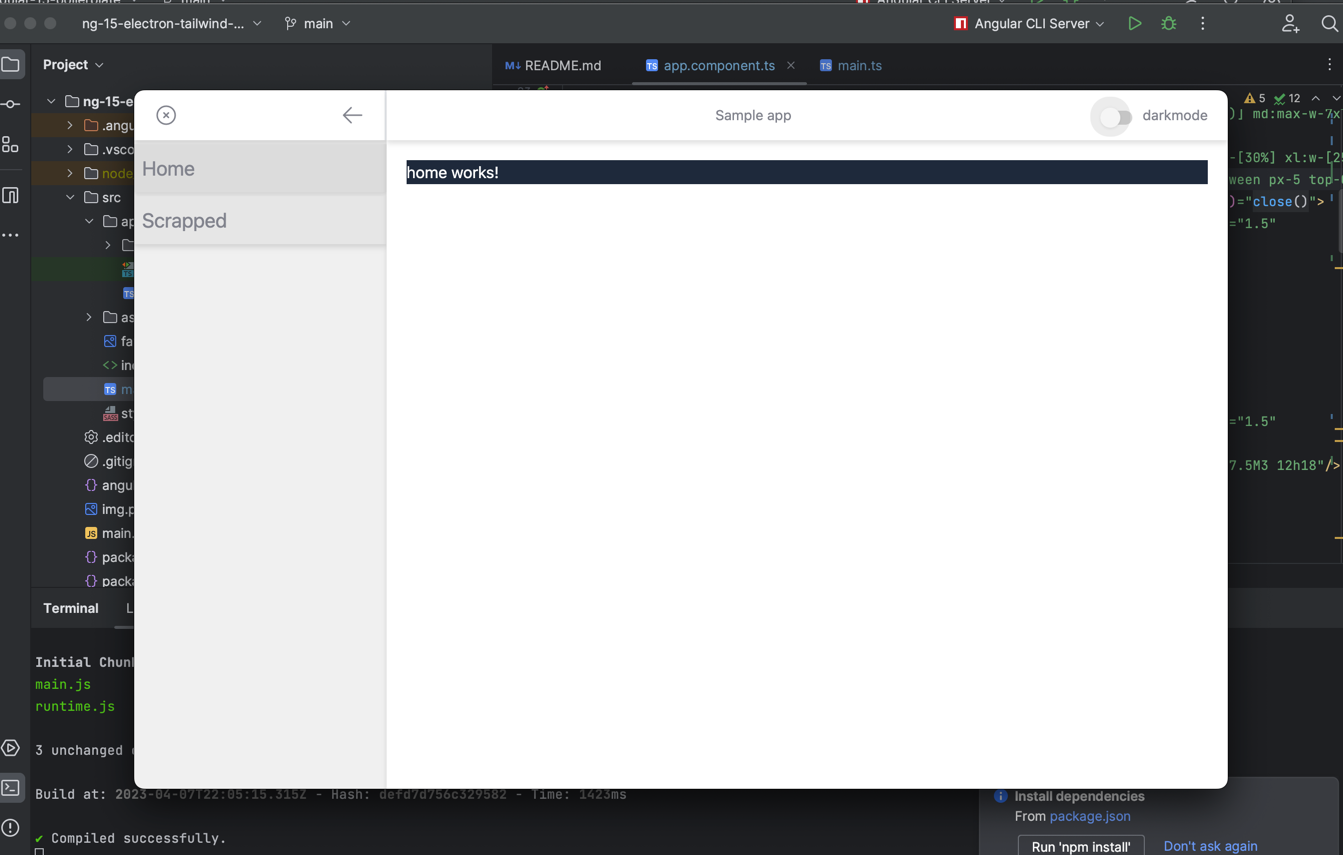
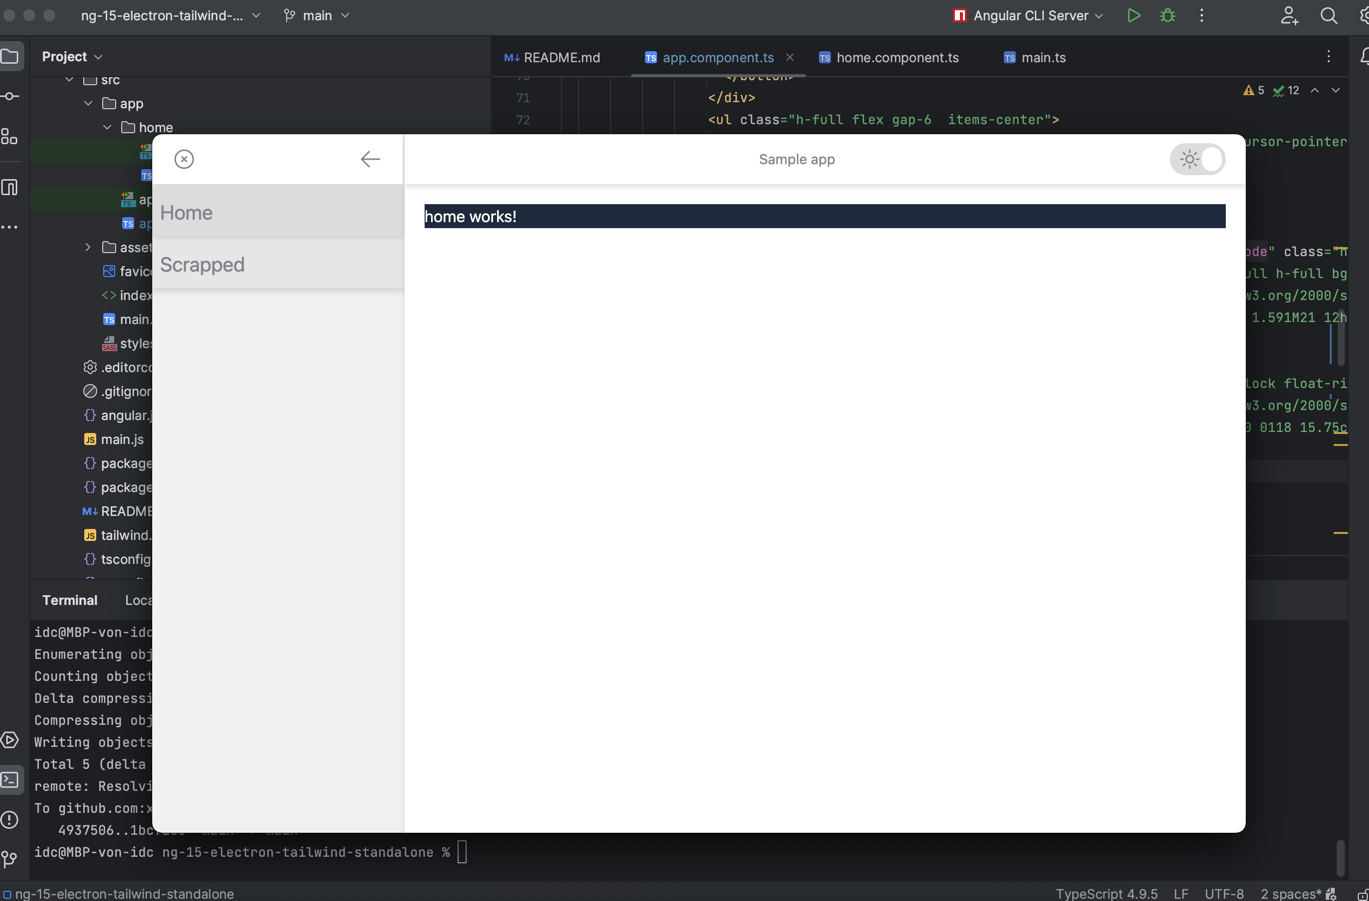
changes darkmode switch

Changed region(s): [[0.0, 0.0, 1.0, 1.0], [0.0, 0.152, 0.0305, 0.2433]]

diff --git a/src/app/app.component.ts b/src/app/app.component.ts
@@ -74,7 +74,21 @@ interface AppRoute {
                   </ul>
 
                   <div class="flex items-center non-dragable">
-                      <input
+                    <div class="w-14 h-8">
+                      <input type="checkbox" id="dark-mode-toggle" [(ngModel)]="darkMode" class="hidden" (change)="darkModeChange()" />
+                      <label for="dark-mode-toggle" class="transition-all delay-0 w-full h-full bg-[rgb(220,220,220)] dark:bg-slate-600 rounded-full p-1 flex justify-between items-center  cursor-pointer">
+                        <span class="inline ml-1 dark:hidden"><svg xmlns="http://www.w3.org/2000/svg" fill="none" viewBox="0 0 24 24" stroke-width="1.5" stroke="currentColor" class="w-6 h-6">
+  <path stroke-linecap="round" stroke-linejoin="round" d="M12 3v2.25m6.364.386l-1.591 1.591M21 12h-2.25m-.386 6.364l-1.591-1.591M12 18.75V21m-4.773-4.227l-1.591 1.591M5.25 12H3m4.227-4.773L5.636 5.636M15.75 12a3.75 3.75 0 11-7.5 0 3.75 3.75 0 017.5 0z" />
+</svg>
+</span>
+                        <span class="w-6 h-6 rounded-full bg-white dark:bg-gray-800 block float-right dark:float-left"></span>
+                        <span class="hidden ml-1 dark:inline"><svg xmlns="http://www.w3.org/2000/svg" fill="none" viewBox="0 0 24 24" stroke-width="1.5" stroke="currentColor" class="w-6 h-6">
+  <path stroke-linecap="round" stroke-linejoin="round" d="M21.752 15.002A9.718 9.718 0 0118 15.75c-5.385 0-9.75-4.365-9.75-9.75 0-1.33.266-2.597.748-3.752A9.753 9.753 0 003 11.25C3 16.635 7.365 21 12.75 21a9.753 9.753 0 009.002-5.998z" />
+</svg>
+</span>
+                      </label>
+                    </div>
+                      <!--<input
                               (change)="darkModeChange()"
                               [(ngModel)]="darkMode"
                               class="mr-2 mt-[0.3rem] h-3.5 w-8 appearance-none rounded-[0.4375rem] bg-neutral-300 before:pointer-events-none before:absolute before:h-3.5 before:w-3.5 before:rounded-full before:bg-transparent before:content-[''] after:absolute after:z-[2] after:-mt-[0.1875rem] after:h-5 after:w-5 after:rounded-full after:border-none after:bg-neutral-100 after:shadow-[0_0px_3px_0_rgb(0_0_0_/_7%),_0_2px_2px_0_rgb(0_0_0_/_4%)] after:transition-[background-color_0.2s,transform_0.2s] after:content-[''] checked:bg-primary checked:after:absolute checked:after:z-[2] checked:after:-mt-[3px] checked:after:ml-[1.0625rem] checked:after:h-5 checked:after:w-5 checked:after:rounded-full checked:after:border-none checked:after:bg-primary checked:after:shadow-[0_3px_1px_-2px_rgba(0,0,0,0.2),_0_2px_2px_0_rgba(0,0,0,0.14),_0_1px_5px_0_rgba(0,0,0,0.12)] checked:after:transition-[background-color_0.2s,transform_0.2s] checked:after:content-[''] hover:cursor-pointer focus:before:scale-100 focus:before:opacity-[0.12] focus:before:shadow-[3px_-1px_0px_13px_rgba(0,0,0,0.6)] focus:before:transition-[box-shadow_0.2s,transform_0.2s] focus:after:absolute focus:after:z-[1] focus:after:block focus:after:h-5 focus:after:w-5 focus:after:rounded-full focus:after:content-[''] checked:focus:border-primary checked:focus:bg-primary checked:focus:before:ml-[1.0625rem] checked:focus:before:scale-100 checked:focus:before:shadow-[3px_-1px_0px_13px_#3b71ca] checked:focus:before:transition-[box-shadow_0.2s,transform_0.2s] dark:bg-neutral-600 dark:after:bg-neutral-400 dark:checked:bg-primary dark:checked:after:bg-primary"
@@ -85,7 +99,7 @@ interface AppRoute {
                               class="inline-block text-sm pl-[0.15rem] hover:cursor-pointer"
                               for="flexSwitchCheckDefault"
                       >darkmode</label
-                      >
+                      >!-->
                   </div>
               </nav>
               <div class="px-5 py-5">
